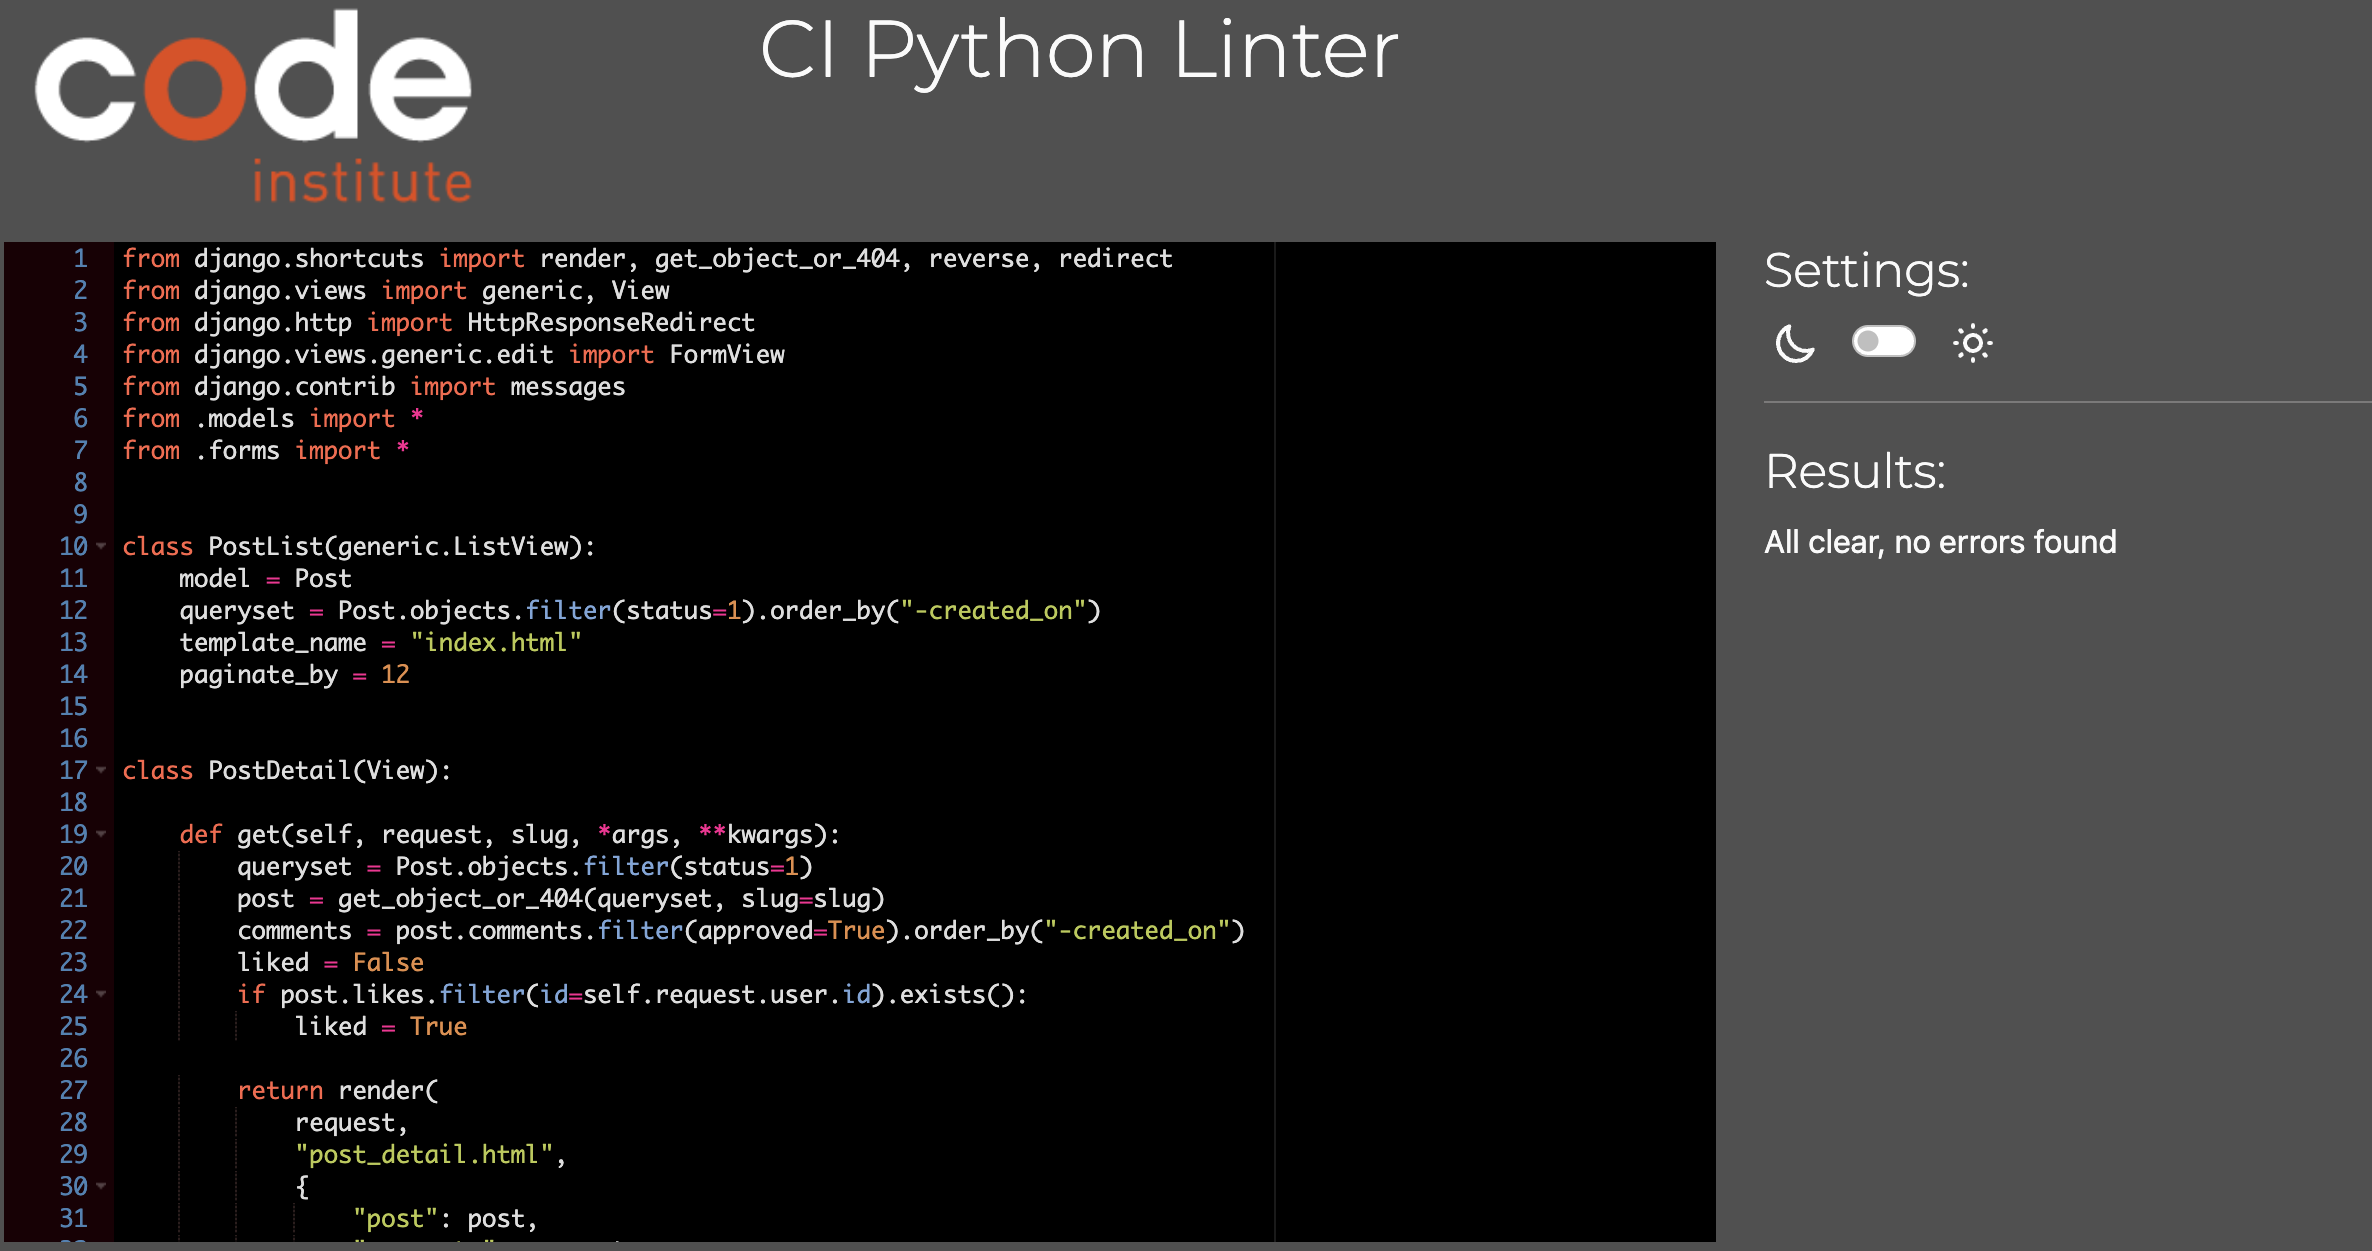
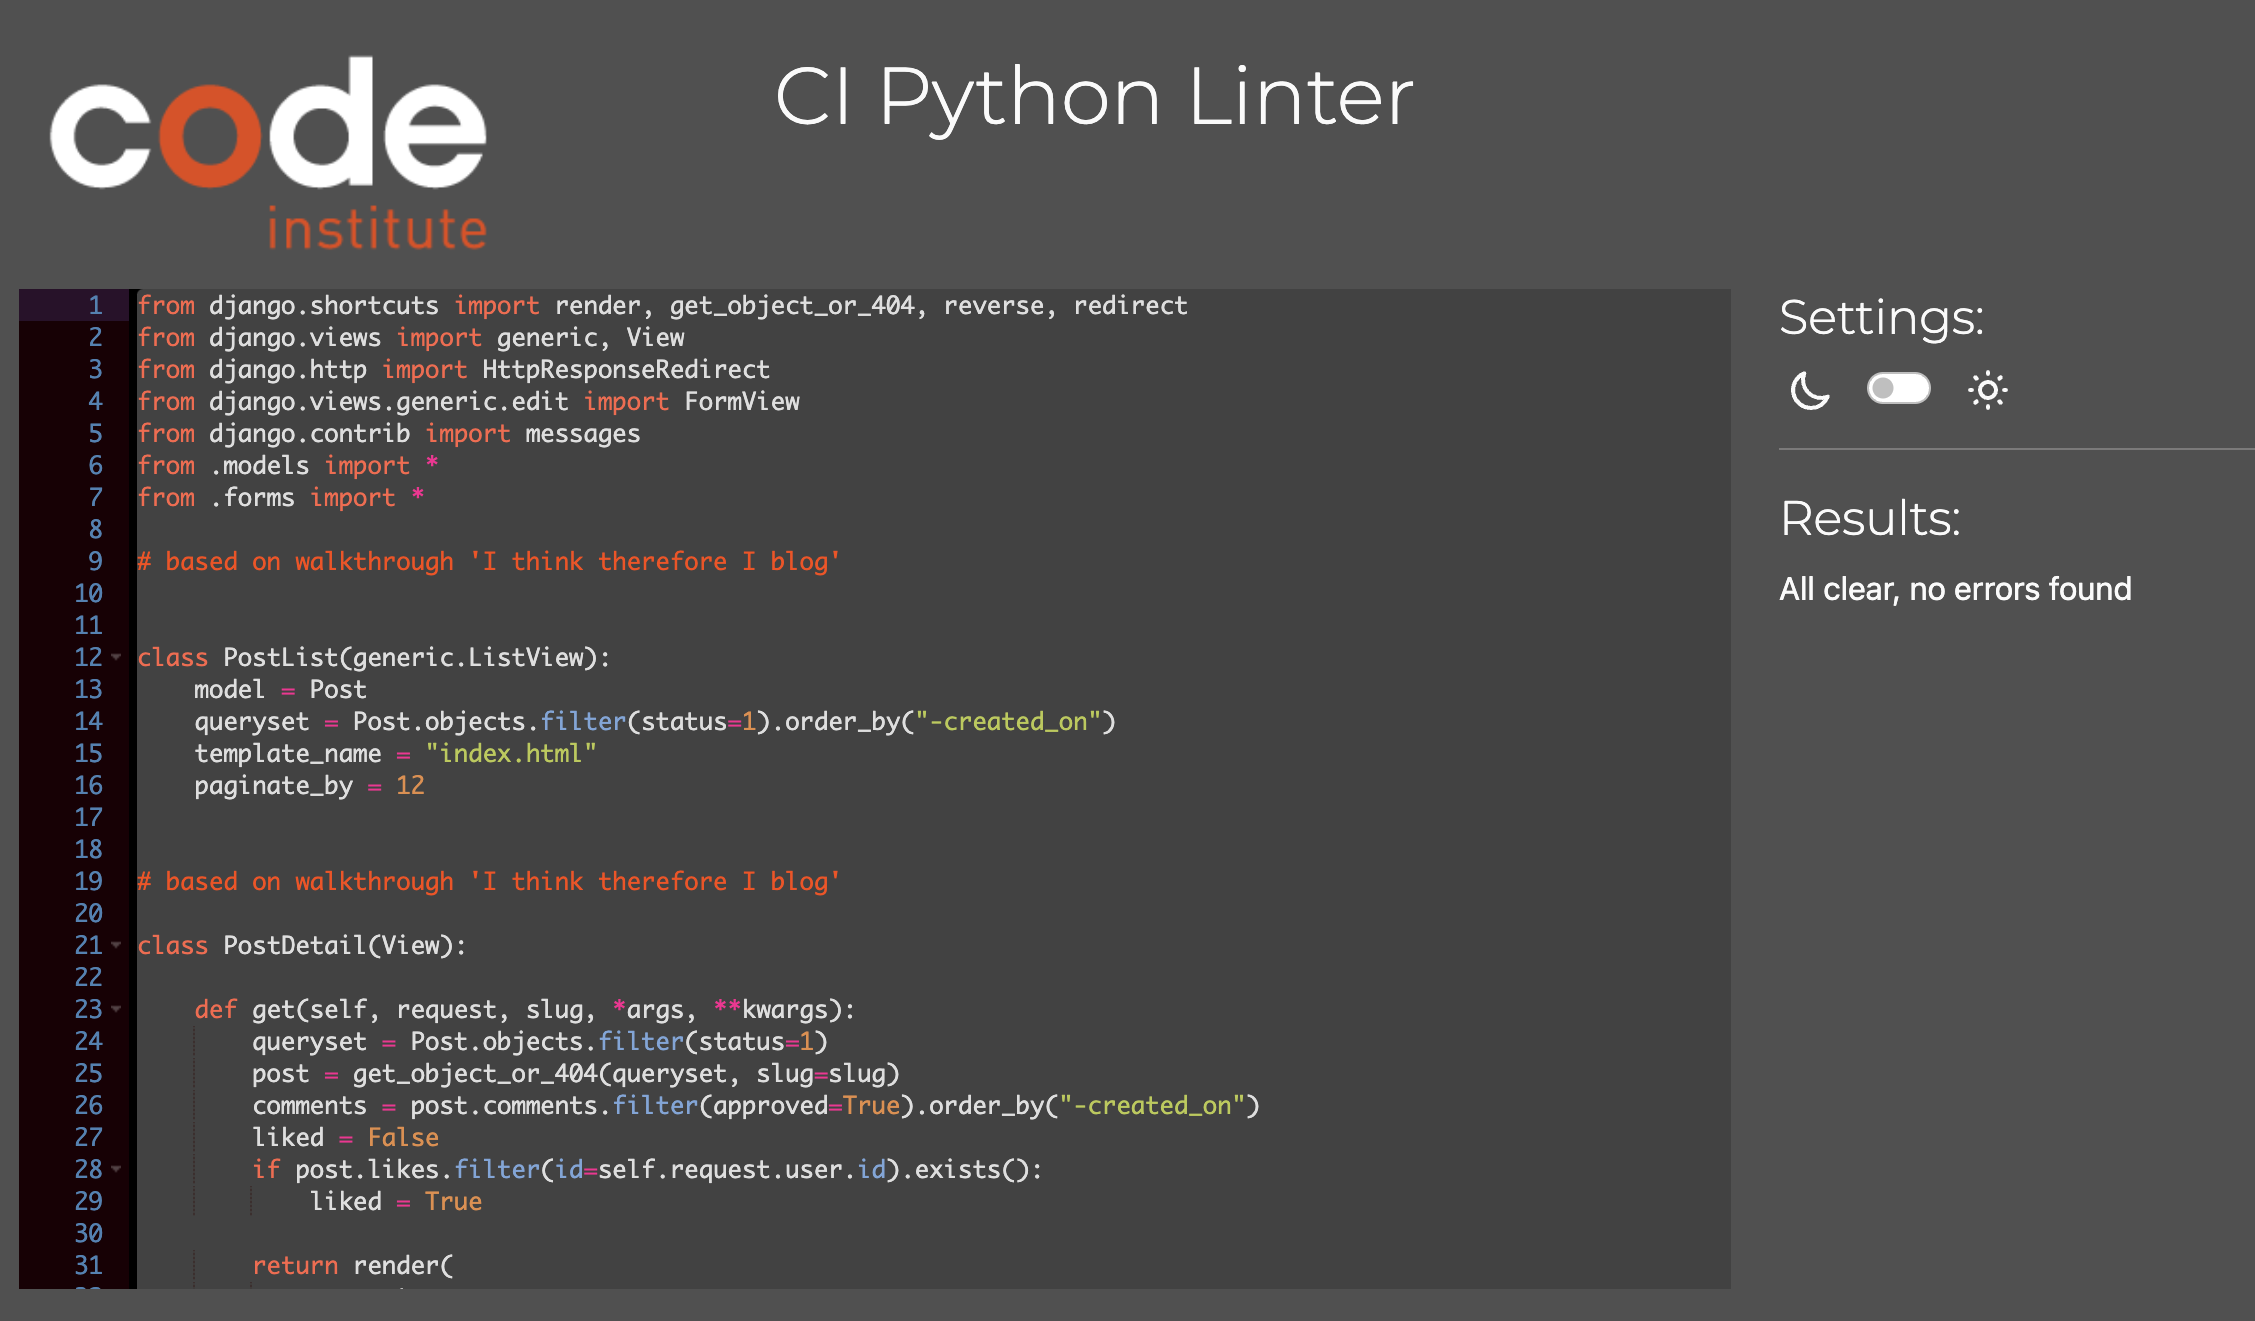
add wireframes to readme and documentation images folder

diff --git a/TotalBlog/views.py b/TotalBlog/views.py
@@ -6,6 +6,8 @@ from django.contrib import messages
 from .models import *
 from .forms import *
 
+# based on walkthrough 'I think therefore I blog'
+
 
 class PostList(generic.ListView):
     model = Post
@@ -13,6 +15,8 @@ class PostList(generic.ListView):
     template_name = "index.html"
     paginate_by = 12
 
+
+# based on walkthrough 'I think therefore I blog'
 
 class PostDetail(View):
 
@@ -35,6 +39,8 @@ class PostDetail(View):
                 "comment_form": CommentForm()
             },
         )
+
+# based on walkthrough 'I think therefore I blog'
 
     def post(self, request, slug, *args, **kwargs):
 
@@ -66,6 +72,8 @@ class PostDetail(View):
                 "liked": liked
             },
         )
+
+# based on walkthrough 'I think therefore I blog'
 
 
 class PostLike(View):
@@ -127,8 +135,8 @@ class ListBookingView(generic.DetailView):
 
 def edit_booking_view(request, booking_id):
     """
-    Renders prepopulated data into the edit.html file 
-    using booking_id to collect already inputed data. 
+    Renders prepopulated data into the edit.html file
+    using booking_id to collect already inputed data.
     Once new data has been entered it POST's it back.
     And redirects user back home.
     """
@@ -139,7 +147,7 @@ def edit_booking_view(request, booking_id):
                 form = OnlineForm(data=request.POST, instance=booking)
                 if form.is_valid():
                     form.save()
-         # Pops up a message to the user when a bookings is updated
+    # Pops up a message to the user when a bookings is updated
                     messages.success(request, 'Booking has been updated')
                     return redirect('/')
         else:

diff --git a/README.md b/README.md
@@ -6,7 +6,7 @@ This blog intertwines reading about whats out there but also allows people to bo
 
 ## CONTENTS
 
-* [Introduction](#TotalPLay)
+* [Introduction](#TotalPlay)
 
 * [Sections and Pages](#sections-and-pages)
     *  [Header](#header)
@@ -161,6 +161,8 @@ Behind the scenes in the admin page, our superusers can use this as a place to c
 ![booking admin](/documentation/image_folders/admin_pics/booking_admin.png)
 </details>
 
+[Back to top](#totalplay)
+
 ## **User Experience**
 
 ### *Admin Users*
@@ -198,6 +200,13 @@ Using the GitHub I used the agile methods and tools to allow myself to create an
 ### *Typeography*
 
 ### *Wireframes*
+As with all projects for CI, we start with a basic Wireframe to help us undestand User wants and better UX:
+
+![Wireframe Home Page](/documentation/image_folders/wireframes/Home.png)
+![Wireframe Booking Page](/documentation/image_folders/wireframes/BookingPage.png)
+
+
+[Back to top](#totalplay)
 
 ## Future Ideas
 
@@ -231,6 +240,8 @@ After building the app, there were a couple of ideas that in the future I would 
 
   ### All notes related to testing are found [here](documentation/testing.md).
 
+[Back to top](#totalplay)
+
 ## Deployment
 
 * Go to the Heroku Dashboard. Create new apllication
@@ -259,3 +270,5 @@ Through-out this project I was inspired and helped by a number of sources, in or
 4) The base of the blog is thanks to the skeleton code of Code Institue's 'I think therefore I blog walkthrough'.
 
 * I'd also like to credit thanks to all the tutors that helped guide me through-out at Code Institue.
+
+[Back to top](#totalplay)

diff --git a/documentation/testing.md b/documentation/testing.md
@@ -28,14 +28,14 @@ Through-out this project there were various bugs and error's that I had help fix
 ## Validation
 Below are all verifications of code validations. 
 
-### HTML Validation
+## HTML Validation
 
 For HTML validation I was instricted by tutors to do the following:
 1) Open page in browser.
 2) View page sorce code.
 3) Copy and paste into relevant Validator.
 
-* Home Page Validation
+### Home Page Validation
 
 <details>
 
@@ -44,7 +44,7 @@ For HTML validation I was instricted by tutors to do the following:
 ![booking admin](/documentation/image_folders/validation_html_pics/home_page_val.png)
 </details>
 
-* Sign In Validation 
+### Sign In Validation 
 
 <details>
 
@@ -53,7 +53,7 @@ For HTML validation I was instricted by tutors to do the following:
 ![booking admin](/documentation/image_folders/validation_html_pics/sign_in_val.png)
 </details>
 
-* Register
+### Register
 
 <details>
 
@@ -62,7 +62,7 @@ For HTML validation I was instricted by tutors to do the following:
 ![booking admin](/documentation/image_folders/)
 </details>
 
-* Book 1:1 Session Page
+### Book 1:1 Session Page
 
 <details>
 
@@ -71,7 +71,16 @@ For HTML validation I was instricted by tutors to do the following:
 ![booking admin](/documentation/image_folders/validation_html_pics/booking_validation.png)
 </details>
 
-* 
+### Book Edit Page 
+
+<details>
+
+<summary>Edit Page ></summary>
+
+![booking admin](/documentation/image_folders/validation_html_pics/edit_page_val.png)
+</details>
+
+## Linter PEP8 testing
 
 ### Admin.py 
 
